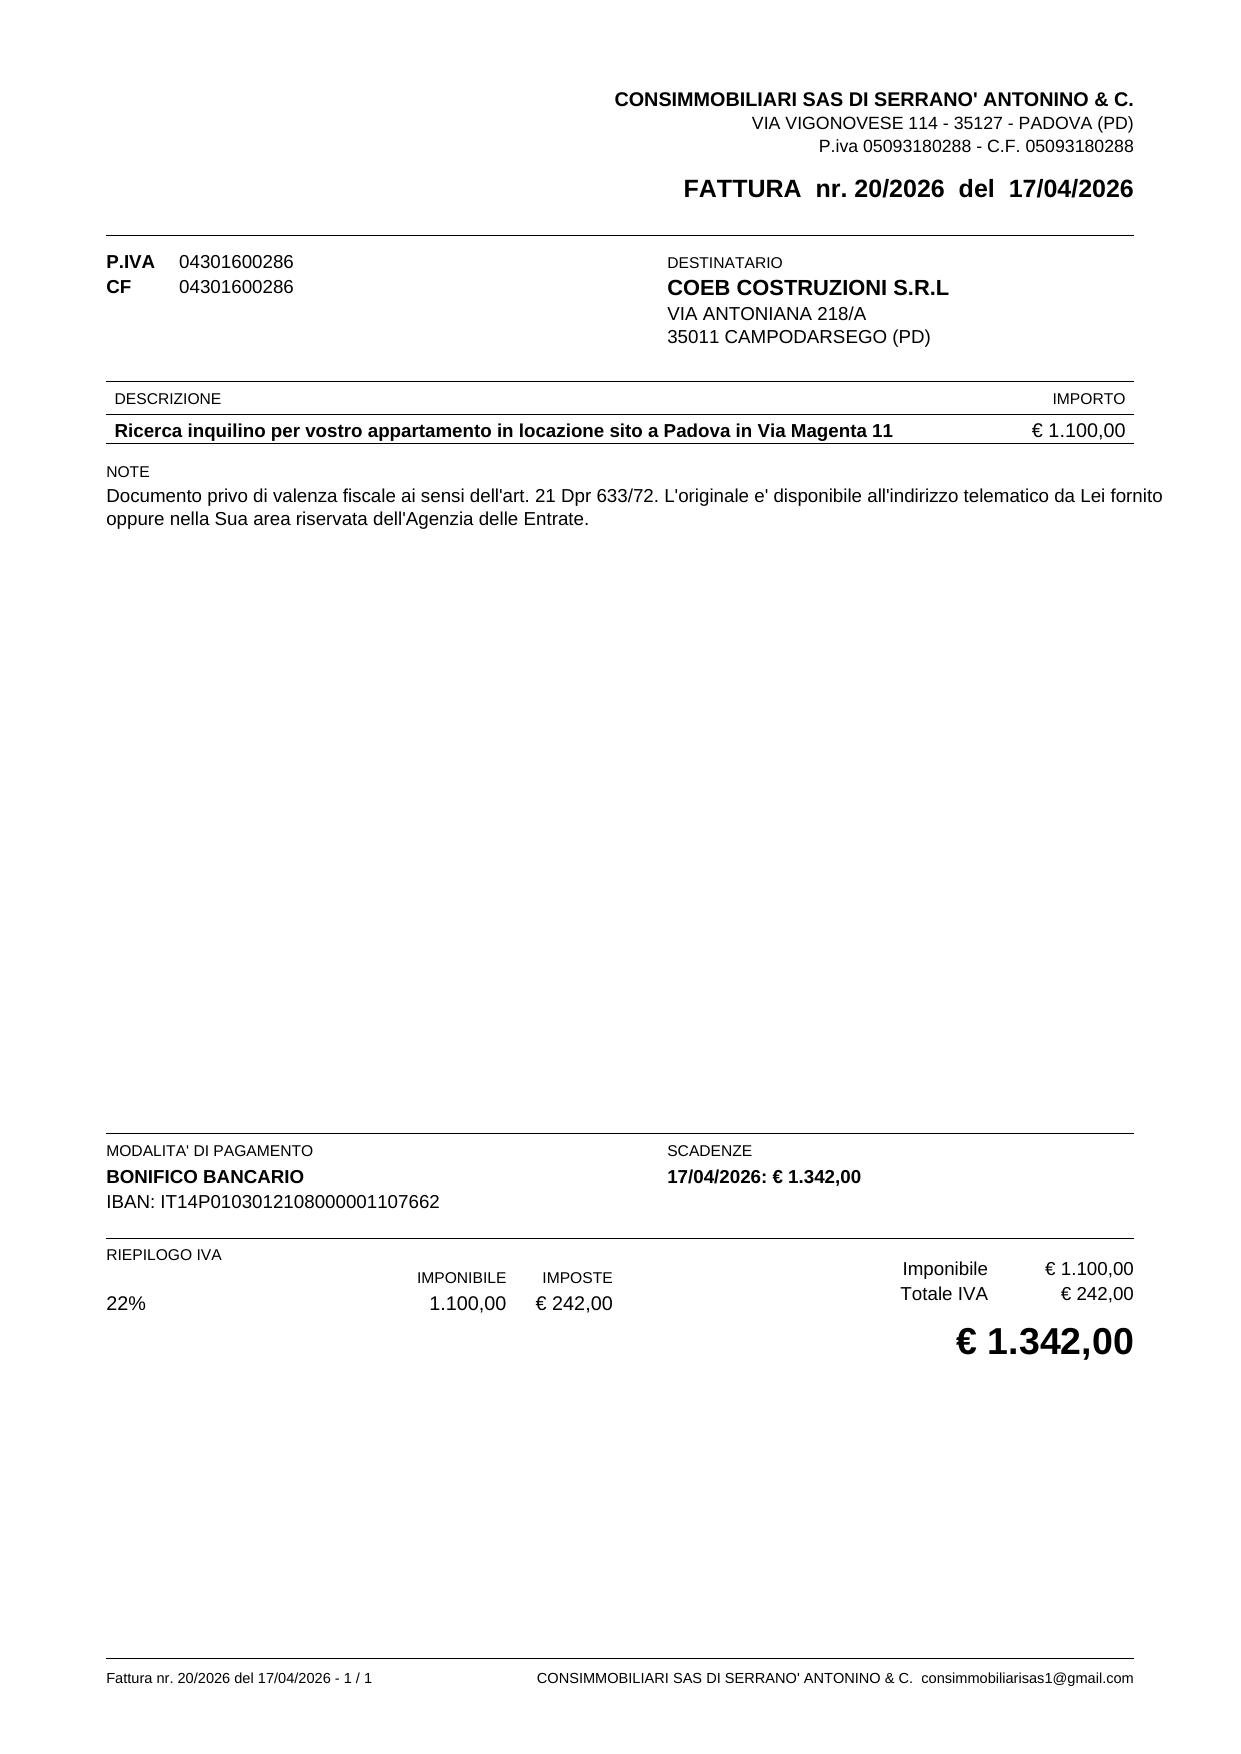
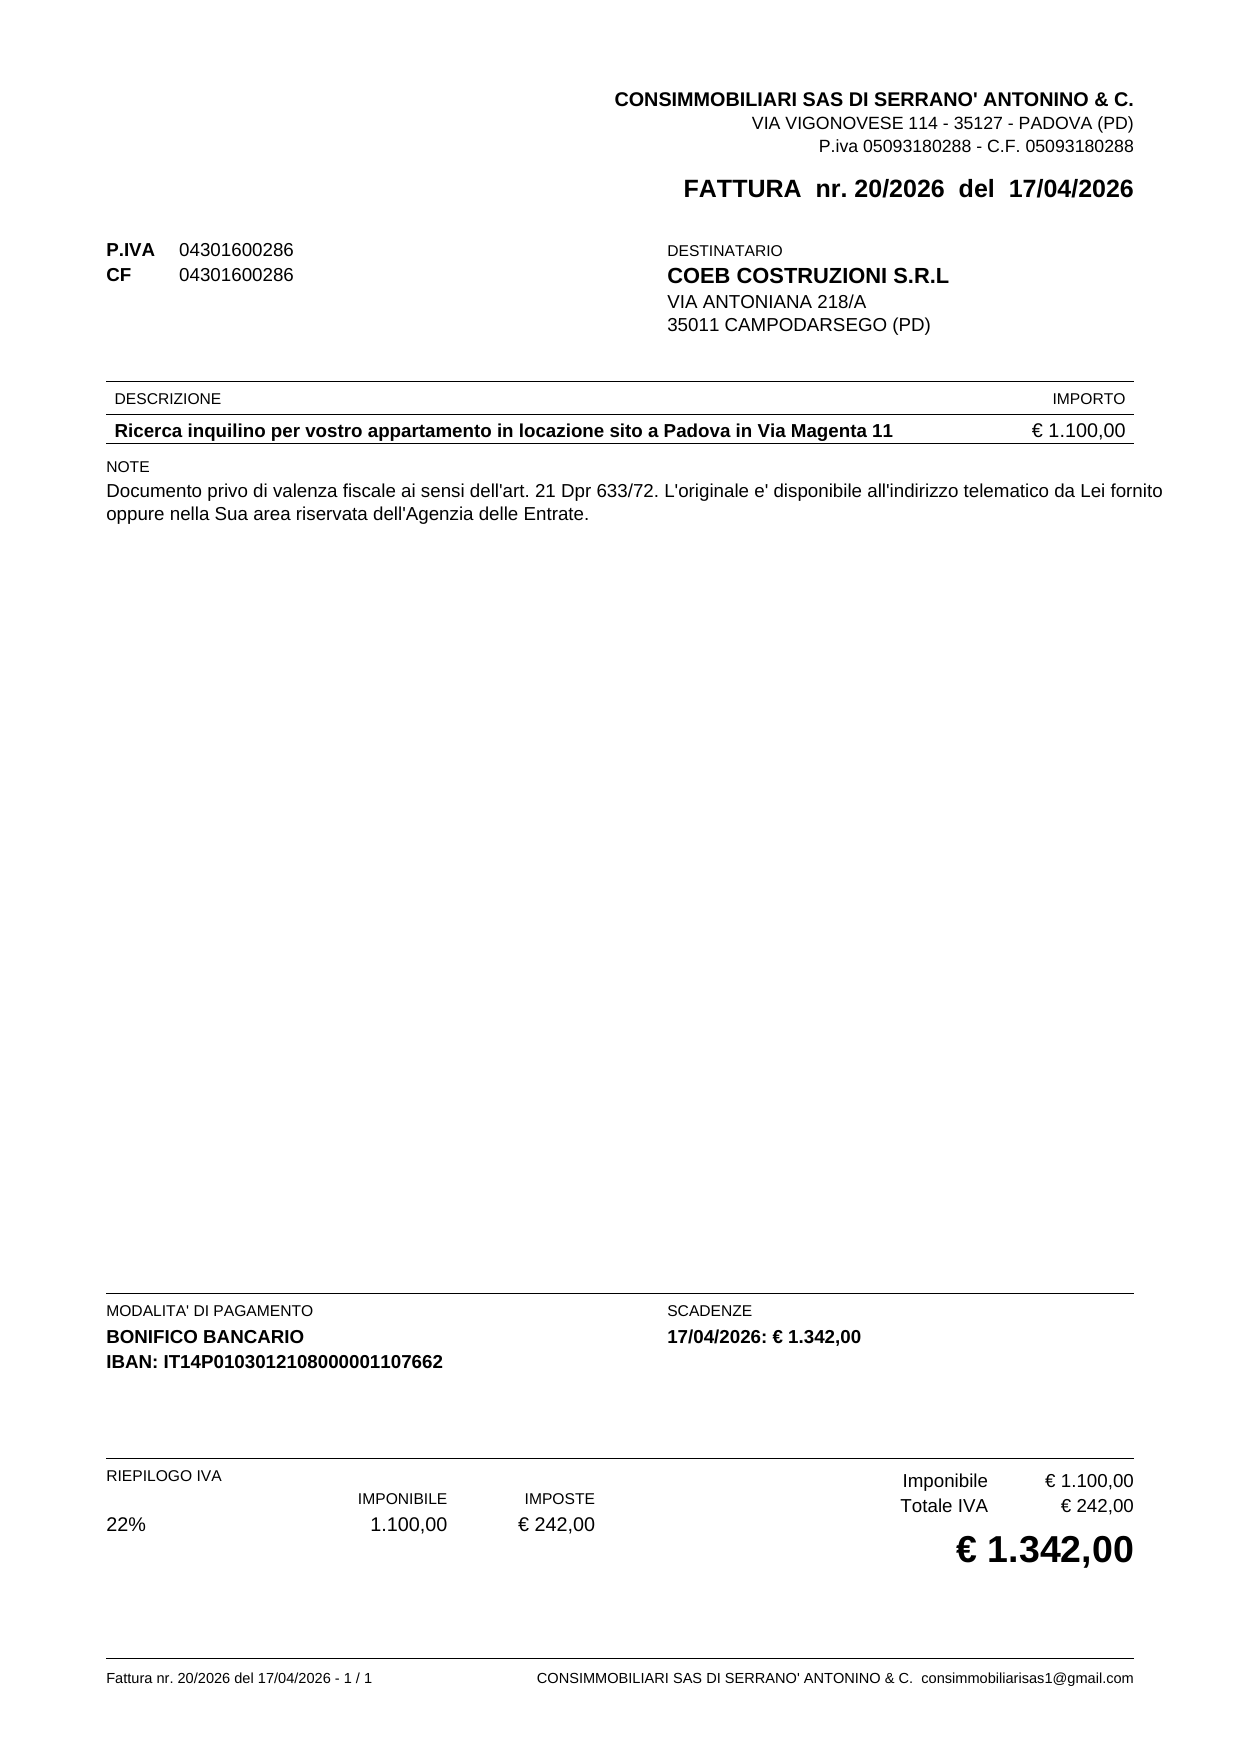
auto-commit for b906aa99-74c1-4b64-9145-ea02456ef3fe

diff --git a/frontend/src/pages/Hospitality.js b/frontend/src/pages/Hospitality.js
@@ -21,6 +21,7 @@ const Hospitality = () => {
   const [searchTerm, setSearchTerm] = useState('');
   const [downloading, setDownloading] = useState(null);
   const [createOpen, setCreateOpen] = useState(false);
+  const [editingId, setEditingId] = useState(null);  // record id being edited (null = create mode)
 
   // OCR state
   const [ocrStatus, setOcrStatus] = useState('idle');
@@ -125,13 +126,28 @@ const Hospitality = () => {
       return;
     }
     try {
-      await axios.post(`${API}/hospitality/records`, form, { withCredentials: true });
-      toast.success('Record ospitalita creato');
+      if (editingId) {
+        await axios.put(`${API}/hospitality/records/${editingId}`, form, { withCredentials: true });
+        toast.success('Record ospitalita aggiornato');
+      } else {
+        await axios.post(`${API}/hospitality/records`, form, { withCredentials: true });
+        toast.success('Record ospitalita creato');
+      }
       setCreateOpen(false);
-      setForm({ tenant_id: '', property_id: '', room_id: '', check_in_date: '', check_out_date: '', hosting_type: 'alloggio', host_surname: '', host_name: '', host_dob: '', host_birth_place: '', host_province: '', host_residence: '', property_comune: '', property_provincia: '', property_number: '', property_interno: '', property_piano: '', notes: '' });
+      setEditingId(null);
+      setForm({ tenant_id: '', property_id: '', room_id: '', check_in_date: '', check_out_date: '', hosting_type: 'alloggio', host_surname: '', host_name: '', host_dob: '', host_birth_place: '', host_province: '', host_residence: '', property_comune: '', property_provincia: '', property_number: '', property_interno: '', property_piano: '', notes: '', signature_type: 'owner' });
       setOcrStatus('idle');
       setOcrResult(null);
       setOcrPreview(null);
+      fetchAll();
+    } catch (err) { toast.error(err.response?.data?.detail || 'Errore'); }
+  };
+
+  const handleDeleteRecord = async (id) => {
+    if (!window.confirm('Eliminare questo record di ospitalita?')) return;
+    try {
+      await axios.delete(`${API}/hospitality/records/${id}`, { withCredentials: true });
+      toast.success('Record eliminato');
       fetchAll();
     } catch (err) { toast.error(err.response?.data?.detail || 'Errore'); }
   };
@@ -153,14 +169,14 @@ const Hospitality = () => {
           <h1 className="luxury-title mb-2">Ospitalita</h1>
           <p className="luxury-subtitle">Comunicazione di ospitalita - Art. 7 D.Lvo 286/98</p>
         </div>
-        <Dialog open={createOpen} onOpenChange={setCreateOpen}>
+        <Dialog open={createOpen} onOpenChange={(open) => { setCreateOpen(open); if (!open) setEditingId(null); }}>
           <DialogTrigger asChild>
             <Button className="btn-luxury" data-testid="create-hospitality-button">
               <Plus size={18} className="mr-2" /> Nuova Ospitalita
             </Button>
           </DialogTrigger>
           <DialogContent className="max-w-3xl max-h-[90vh] overflow-y-auto luxury-modal">
-            <DialogHeader><DialogTitle>Nuova Comunicazione di Ospitalita</DialogTitle></DialogHeader>
+            <DialogHeader><DialogTitle>{editingId ? 'Modifica Comunicazione di Ospitalita' : 'Nuova Comunicazione di Ospitalita'}</DialogTitle></DialogHeader>
             <form onSubmit={handleCreateSubmit} className="space-y-5">
 
               {/* OCR Section */}
@@ -318,7 +334,7 @@ const Hospitality = () => {
 
               <div className="flex justify-end gap-3 pt-2">
                 <Button type="button" variant="outline" onClick={() => setCreateOpen(false)} className="rounded-xl">Annulla</Button>
-                <Button type="submit" className="btn-luxury">Crea e Salva</Button>
+                <Button type="submit" className="btn-luxury" data-testid="hospitality-submit">{editingId ? 'Aggiorna Record' : 'Crea e Salva'}</Button>
               </div>
             </form>
           </DialogContent>
@@ -339,6 +355,7 @@ const Hospitality = () => {
                 <div className="flex items-center gap-2">
                   <Button size="sm" variant="outline" className="text-xs" onClick={() => {
                     // Re-open the create dialog with this record's data so the user can edit & re-save
+                    setEditingId(r.id);
                     setForm({
                       tenant_id: r.tenant_id || '',
                       property_id: r.property_id || '',
@@ -356,6 +373,7 @@ const Hospitality = () => {
                     });
                     setCreateOpen(true);
                   }} data-testid={`edit-hospitality-${r.id}`}>Modifica</Button>
+                  <Button size="sm" variant="outline" className="text-xs" style={{ color: '#9F1239', borderColor: '#9F1239' }} onClick={() => handleDeleteRecord(r.id)} data-testid={`delete-hospitality-${r.id}`}>Elimina</Button>
                   <Button size="sm" className="btn-luxury text-xs" onClick={() => handleDownloadPdf(r.tenant_id, r.tenant_name)}>
                     <Download size={14} className="mr-1" /> PDF
                   </Button>

diff --git a/backend/services/invoice_pdf.py b/backend/services/invoice_pdf.py
@@ -117,7 +117,7 @@ def generate_fattura_pdf(data: dict) -> BytesIO:
     LEFT = 18 * mm
     RIGHT = W - 18 * mm
 
-    # ---------- 1) Top-right header (issuer) ----------
+    # ---------- 1) Top-right header (issuer, 3 lines) ----------
     y = H - 18 * mm
     c.setFont("Helvetica-Bold", 9.5)
     c.drawRightString(RIGHT, y, ISSUER_NAME)
@@ -127,26 +127,19 @@ def generate_fattura_pdf(data: dict) -> BytesIO:
     y -= 11
     c.drawRightString(RIGHT, y, f"P.iva {ISSUER_PIVA} - C.F. {ISSUER_CF}")
 
-    # ---------- 2) "FATTURA nr. X/YYYY del DD/MM/YYYY" (right-aligned, own row) ----------
+    # ---------- 2) "FATTURA nr. X/YYYY del DD/MM/YYYY" (right-aligned) ----------
     inv_date_str = _fmt_date_it(data.get("invoice_date") or datetime.now().strftime("%Y-%m-%d"))
     try:
         year = int(inv_date_str.split("/")[-1])
     except (ValueError, IndexError):
         year = datetime.now().year
     inv_no = _short_invoice_no(data.get("invoice_number"), year)
-
     y -= 22
     c.setFont("Helvetica-Bold", 12)
     c.drawRightString(RIGHT, y, f"FATTURA  nr. {inv_no}  del  {inv_date_str}")
 
-    # ---------- 3) Horizontal separator ----------
-    sep_y = y - 18
-    c.setLineWidth(0.4)
-    c.line(LEFT, sep_y, RIGHT, sep_y)
-
-    # ---------- 4) Recipient block ----------
-    # Left: small CF/PIVA of recipient (matches reference)
-    rec_y = sep_y - 16
+    # ---------- 3) Recipient block (NO horizontal line above it) ----------
+    rec_y = y - 28
     c.setFont("Helvetica-Bold", 9)
     if data.get("recipient_piva"):
         c.drawString(LEFT, rec_y, "P.IVA")
@@ -158,7 +151,6 @@ def generate_fattura_pdf(data: dict) -> BytesIO:
         c.setFont("Helvetica", 9)
         c.drawString(LEFT + 35, rec_y - 12, str(data["recipient_cf"]))
 
-    # Right: DESTINATARIO block
     rcol_x = LEFT + 95 * mm
     c.setFont("Helvetica", 7.5)
     c.drawString(rcol_x, rec_y, "DESTINATARIO")
@@ -172,8 +164,8 @@ def generate_fattura_pdf(data: dict) -> BytesIO:
     if rec_city:
         c.drawString(rcol_x, rec_y - 36, rec_city)
 
-    # ---------- 5) Item table ----------
-    table_top = sep_y - 70
+    # ---------- 4) Item table (top horizontal line + DESCRIZIONE/IMPORTO row) ----------
+    table_top = rec_y - 60
     c.setLineWidth(0.4)
     c.line(LEFT, table_top, RIGHT, table_top)
     c.setFont("Helvetica", 7.5)
@@ -181,14 +173,12 @@ def generate_fattura_pdf(data: dict) -> BytesIO:
     c.drawRightString(RIGHT - 4, table_top - 11, "IMPORTO")
     c.line(LEFT, table_top - 16, RIGHT, table_top - 16)
 
-    # Item row (single line)
+    # Item row
     line_amount = float(data.get("line_amount", 0) or 0)
     desc_lines = _wrap(data.get("line_description", ""), 95)
     row_h = 14 + (len(desc_lines) - 1) * 11
     row_top = table_top - 16
     row_bot = row_top - row_h
-    # very light shading (mimic reference's faint row tint via thin dotted-ish look = single bg line)
-    # but rules say "no colors" — so we keep it crisp lines only.
     c.setFont("Helvetica-Bold", 9)
     for i, ln in enumerate(desc_lines):
         c.drawString(LEFT + 4, row_top - 11 - i * 11, ln)
@@ -196,8 +186,8 @@ def generate_fattura_pdf(data: dict) -> BytesIO:
     c.drawRightString(RIGHT - 4, row_top - 11, _fmt_eur(line_amount))
     c.line(LEFT, row_bot, RIGHT, row_bot)
 
-    # ---------- 6) NOTE / legal disclaimer ----------
-    note_y = row_bot - 16
+    # ---------- 5) NOTE / legal disclaimer (just below table, no separator) ----------
+    note_y = row_bot - 14
     c.setFont("Helvetica", 7.5)
     c.drawString(LEFT, note_y, "NOTE")
     c.setFont("Helvetica", 9)
@@ -207,14 +197,15 @@ def generate_fattura_pdf(data: dict) -> BytesIO:
     c.drawString(LEFT, note_y - 23,
                  "oppure nella Sua area riservata dell'Agenzia delle Entrate.")
 
-    # ---------- 7) Bottom block: MODALITÀ DI PAGAMENTO + SCADENZE ----------
-    pay_top = 105 * mm
+    # ---------- 6) MODALITÀ DI PAGAMENTO + SCADENZE (anchored toward bottom) ----------
+    pay_top = 78 * mm
+    c.setLineWidth(0.4)
     c.line(LEFT, pay_top, RIGHT, pay_top)
     c.setFont("Helvetica", 7.5)
     c.drawString(LEFT, pay_top - 11, "MODALITA' DI PAGAMENTO")
     c.setFont("Helvetica-Bold", 9)
     c.drawString(LEFT, pay_top - 24, "BONIFICO BANCARIO")
-    c.setFont("Helvetica", 9)
+    c.setFont("Helvetica-Bold", 9)
     c.drawString(LEFT, pay_top - 36, f"IBAN: {BANK_IBAN}")
 
     sc_x = LEFT + 95 * mm
@@ -228,18 +219,15 @@ def generate_fattura_pdf(data: dict) -> BytesIO:
     totale = round(imponibile + imposte, 2)
     c.drawString(sc_x, pay_top - 24, f"{due}: {_fmt_eur(totale)}")
 
-    # ---------- 8) Separator above RIEPILOGO IVA ----------
-    riep_top = pay_top - 50
+    # ---------- 7) Horizontal separator above RIEPILOGO IVA ----------
+    riep_top = 50 * mm
     c.line(LEFT, riep_top, RIGHT, riep_top)
-
-    # ---------- 9) RIEPILOGO IVA (left side, aligned columns) ----------
     c.setFont("Helvetica", 7.5)
     c.drawString(LEFT, riep_top - 11, "RIEPILOGO IVA")
+    # column captions and values
     col_alq = LEFT
-    col_imp = LEFT + 60 * mm
-    col_imposte = LEFT + 78 * mm
-    c.drawString(col_alq, riep_top - 22, "")  # spacer
-    c.setFont("Helvetica", 7.5)
+    col_imp = LEFT + 50 * mm
+    col_imposte = LEFT + 75 * mm
     c.drawRightString(col_imp + 22, riep_top - 22, "IMPONIBILE")
     c.drawRightString(col_imposte + 22, riep_top - 22, "IMPOSTE")
     c.setFont("Helvetica", 9.5)
@@ -247,20 +235,20 @@ def generate_fattura_pdf(data: dict) -> BytesIO:
     c.drawRightString(col_imp + 22, riep_top - 35, _fmt_eur(imponibile, with_symbol=False))
     c.drawRightString(col_imposte + 22, riep_top - 35, _fmt_eur(imposte))
 
-    # ---------- 10) TOTAL block (right side, no border) ----------
+    # ---------- 8) Right side: Imponibile / Totale IVA / GRAND TOTAL ----------
     tx_right = RIGHT
-    ty = riep_top - 18
+    ty = riep_top - 14
     c.setFont("Helvetica", 9)
     c.drawRightString(tx_right - 70, ty, "Imponibile")
     c.drawRightString(tx_right, ty, _fmt_eur(imponibile))
     ty -= 12
     c.drawRightString(tx_right - 70, ty, "Totale IVA")
     c.drawRightString(tx_right, ty, _fmt_eur(imposte))
-    ty -= 26
+    ty -= 24
     c.setFont("Helvetica-Bold", 18)
     c.drawRightString(tx_right, ty, _fmt_eur(totale))
 
-    # ---------- 11) Footer line + tiny captions ----------
+    # ---------- 9) Bottom footer line + tiny captions ----------
     foot_y = 12 * mm
     c.setLineWidth(0.3)
     c.line(LEFT, foot_y + 12, RIGHT, foot_y + 12)

diff --git a/backend/routes/hospitality.py b/backend/routes/hospitality.py
@@ -68,6 +68,42 @@ async def create_hospitality_record(record: HospitalityCreate, user: dict = Depe
     return d
 
 
+@router.put("/records/{record_id}")
+async def update_hospitality_record(record_id: str, record: HospitalityCreate, user: dict = Depends(get_current_user)):
+    """Explicit PUT endpoint for editing a hospitality record by its id."""
+    existing = await db.hospitality_records.find_one({"id": record_id}, {"_id": 0})
+    if not existing:
+        raise HTTPException(status_code=404, detail="Record ospitalita non trovato")
+
+    tenant = await db.tenants.find_one({"id": record.tenant_id}, {"_id": 0})
+    if not tenant:
+        raise HTTPException(status_code=404, detail="Inquilino non trovato")
+    prop = await db.properties.find_one({"id": record.property_id}, {"_id": 0})
+    if not prop:
+        raise HTTPException(status_code=404, detail="Immobile non trovato")
+
+    d = record.model_dump()
+    d["id"] = record_id
+    d["tenant_name"] = tenant.get("full_name", "")
+    d["property_address"] = prop.get("address", "")
+    d["status"] = existing.get("status", "active")
+    d["created_at"] = existing.get("created_at")
+    d["created_by"] = existing.get("created_by")
+    d["updated_at"] = datetime.now(timezone.utc).isoformat()
+    d["updated_by"] = user.get("email", "")
+    await db.hospitality_records.update_one({"id": record_id}, {"$set": d})
+    return d
+
+
+@router.delete("/records/{record_id}")
+async def delete_hospitality_record(record_id: str, user: dict = Depends(get_current_user)):
+    """Delete a hospitality record."""
+    res = await db.hospitality_records.delete_one({"id": record_id})
+    if res.deleted_count == 0:
+        raise HTTPException(status_code=404, detail="Record ospitalita non trovato")
+    return {"message": "Record eliminato"}
+
+
 @router.get("/records")
 async def get_hospitality_records(user: dict = Depends(get_current_user)):
     """List all hospitality records."""
